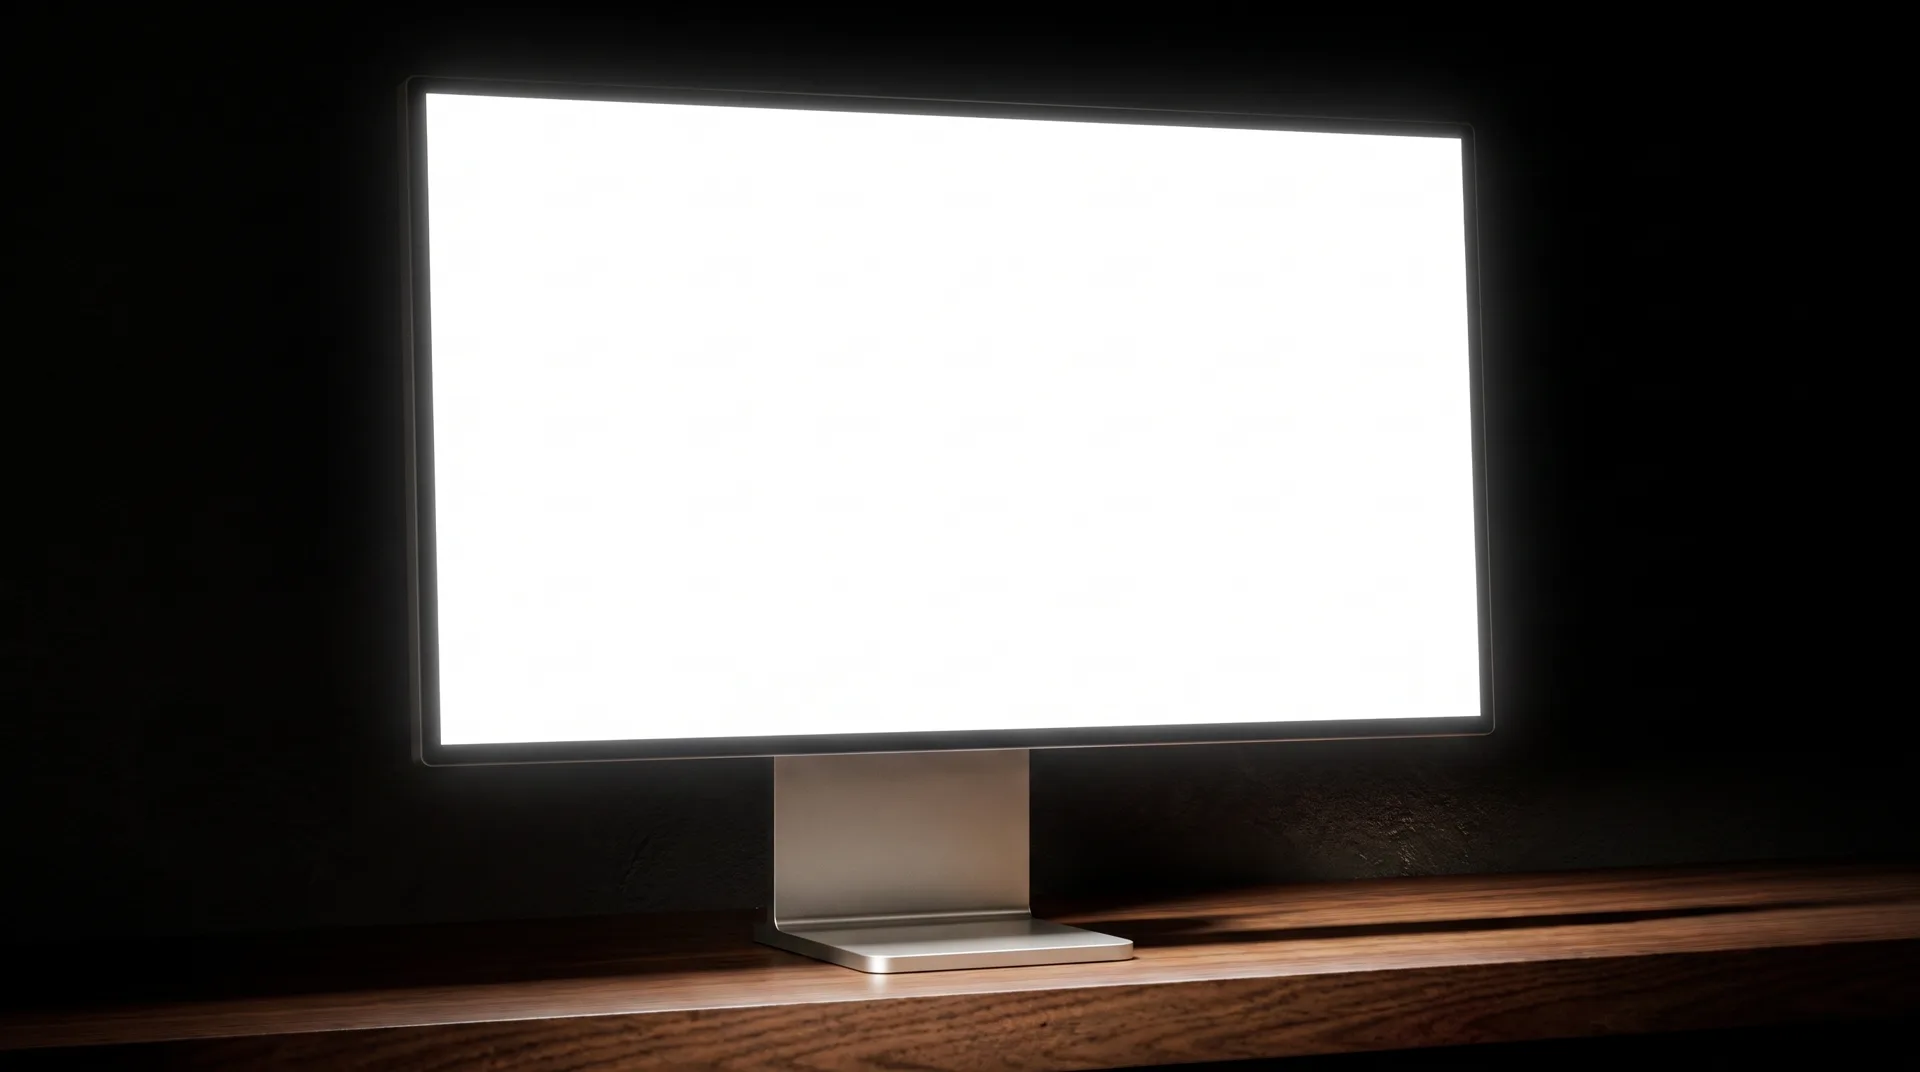
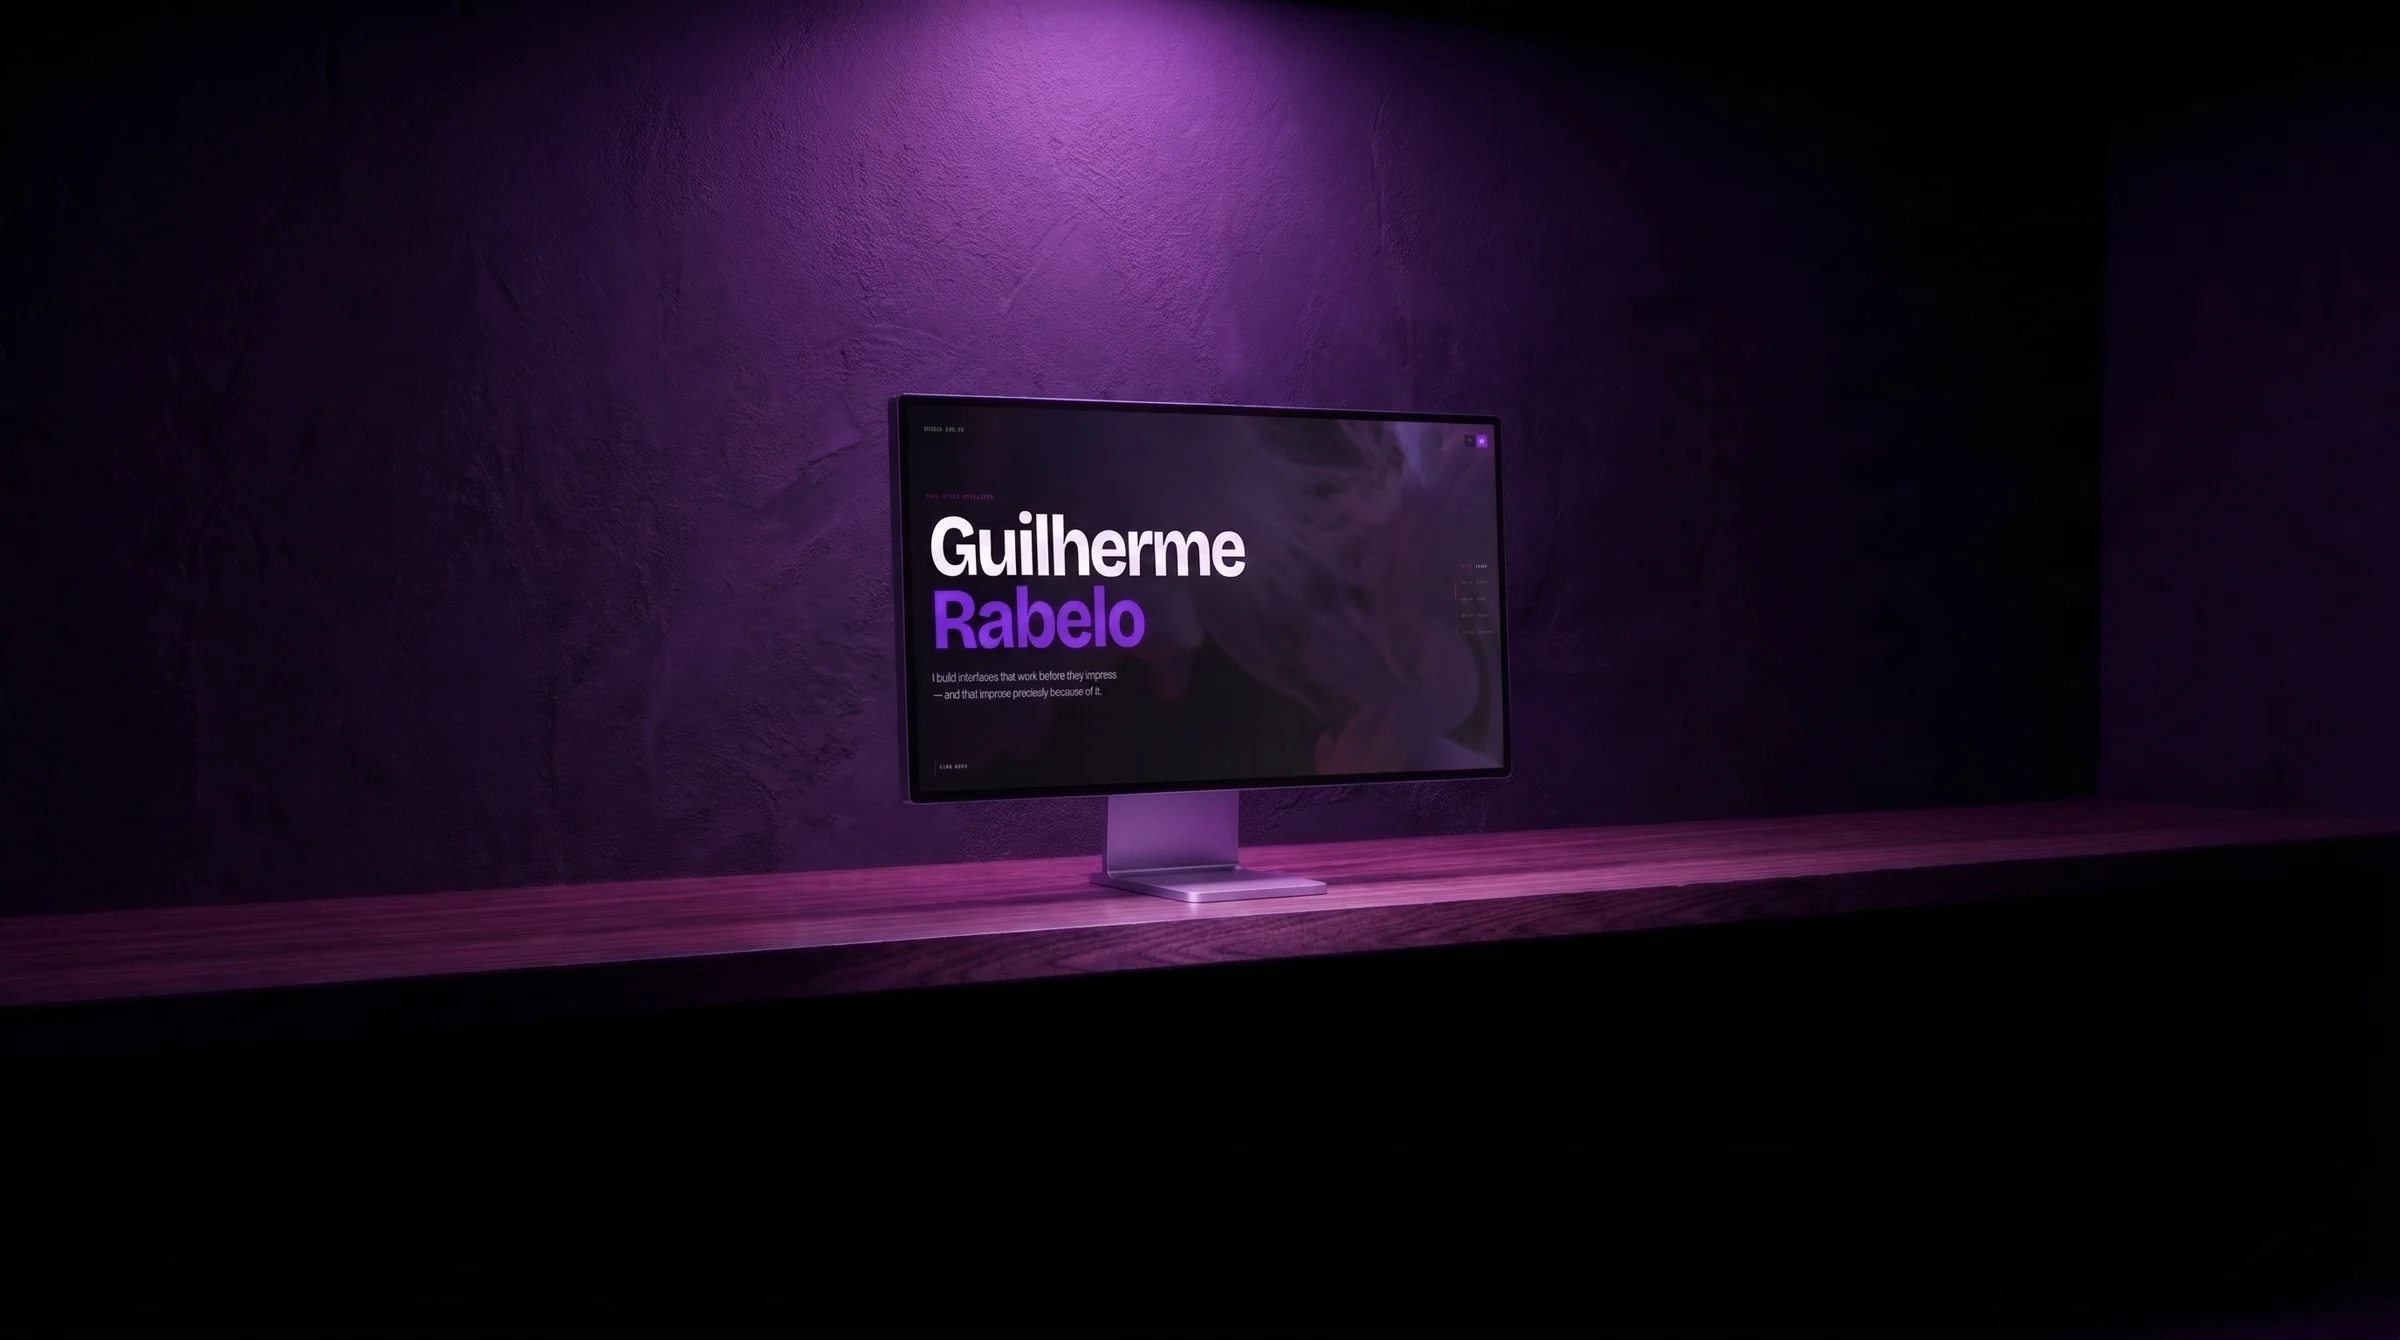
Troca a foto de abertura e ajusta numeros e stack
A abertura passa a usar a foto do monitor de longe, com a sala em roxo.
Como ela ja enquadra o monitor pequeno, a sequencia agora so amplia, sem
partir de uma escala reduzida.

O recorte da tela precisa converter as coordenadas medidas na foto para
a viewport: object-cover corta a imagem, entao uma porcentagem da foto
nao cai no mesmo ponto da tela e o video encaixava torto.

Numeros passam a tres: 6 anos, 15 projetos e 12 clientes. Sai Java da
stack e entra React Native.

diff --git a/components/sections/hero.tsx b/components/sections/hero.tsx
@@ -1,38 +1,67 @@
 "use client";
 
 import Image from "next/image";
+import { useEffect, useState } from "react";
 import { ScrollVideo } from "@/components/scroll-video";
 import { useIdioma } from "@/components/idioma";
 import { PERFIL, VIDEOS } from "@/lib/site-data";
 import { fatia, useScrollProgress } from "@/lib/use-scroll-progress";
 
-// Cantos da tela dentro de monitor.webp, medidos na imagem. O monitor está
-// levemente girado, então o lado direito começa mais abaixo que o esquerdo.
+const IMG = { w: 2752, h: 1536 };
+
+// Cantos da tela dentro de monitor.webp, em porcentagem da imagem. O monitor
+// está levemente girado, então o lado direito começa mais abaixo que o esquerdo.
 const TELA = [
-  [21.9, 8.2],
-  [77.4, 12.4],
-  [77.4, 67.2],
-  [21.9, 70.0],
+  [37.4, 29.6],
+  [63.2, 31.4],
+  [63.2, 57.8],
+  [37.4, 60.5],
 ] as const;
 
 const lerp = (a: number, b: number, t: number) => a + (b - a) * t;
 
-const MASCARA_MONITOR =
-  "radial-gradient(ellipse 74% 80% at 50% 48%, #000 58%, transparent 94%)";
-
 export function Hero() {
   const { t } = useIdioma();
   const { ref, progress } = useScrollProgress<HTMLElement>();
+  const [vp, setVp] = useState({ w: 0, h: 0 });
+
+  useEffect(() => {
+    const medir = () => setVp({ w: window.innerWidth, h: window.innerHeight });
+    medir();
+    window.addEventListener("resize", medir);
+    return () => window.removeEventListener("resize", medir);
+  }, []);
 
   const zoom = fatia(progress, 0, 0.6);
   const abertura = fatia(progress, 0.42, 0.72);
-  const ambiente = 1 - fatia(progress, 0.1, 0.5);
   const titulo = fatia(progress, 0.66, 0.86);
 
-  const escala = 0.34 + Math.pow(zoom, 2) * 2.5;
+  // A foto já enquadra o monitor de longe, então a sequência só amplia: começa
+  // no tamanho natural dela e vai até a tela dominar a viewport.
+  const escala = 1 + Math.pow(zoom, 2) * 3.1;
+
+  /**
+   * `object-cover` recorta a foto para preencher a viewport, então uma
+   * porcentagem medida na imagem não cai no mesmo ponto da tela. Aqui refazemos
+   * a conta do cover para converter os cantos da tela em coordenadas da
+   * viewport — sem isso o vídeo encaixa torto em telas de proporção diferente.
+   */
+  const paraViewport = ([x, y]: readonly [number, number]) => {
+    if (!vp.w || !vp.h) return [x, y] as const;
+    const cover = Math.max(vp.w / IMG.w, vp.h / IMG.h);
+    const larguraReal = IMG.w * cover;
+    const alturaReal = IMG.h * cover;
+    const sobraX = (larguraReal - vp.w) / 2;
+    const sobraY = (alturaReal - vp.h) / 2;
+    return [
+      ((x / 100) * larguraReal - sobraX) / vp.w * 100,
+      ((y / 100) * alturaReal - sobraY) / vp.h * 100,
+    ] as const;
+  };
 
   // A tela abre até virar a viewport inteira, sem trocar de elemento
-  const recorte = TELA.map(([x, y], i) => {
+  const recorte = TELA.map((canto, i) => {
+    const [x, y] = paraViewport(canto);
     const destino = [
       [0, 0],
       [100, 0],
@@ -45,14 +74,9 @@ export function Hero() {
   return (
     <section ref={ref} id="inicio" className="relative h-[420vh]">
       <div className="sticky top-0 h-screen overflow-hidden">
-        <div
-          className="absolute inset-0 bg-[radial-gradient(ellipse_55%_45%_at_50%_45%,#141024_0%,#09070f_60%)]"
-          style={{ opacity: ambiente }}
-        />
-
-        <div className="absolute inset-0 flex items-center justify-center">
+        <div className="absolute inset-0">
           <div
-            className="relative aspect-[2752/1536] w-[72vw] max-w-[1240px] will-change-transform"
+            className="relative h-full w-full will-change-transform"
             style={{ transform: `scale(${escala})` }}
           >
             <Image
@@ -60,15 +84,9 @@ export function Hero() {
               alt=""
               fill
               priority
-              sizes="72vw"
-              className="object-contain"
-              style={{
-                opacity: 1 - abertura,
-                // O preto da foto não é o preto da página: sem dissolver as
-                // bordas, o retângulo da imagem fica visível sobre o fundo.
-                maskImage: MASCARA_MONITOR,
-                WebkitMaskImage: MASCARA_MONITOR,
-              }}
+              sizes="100vw"
+              className="object-cover"
+              style={{ opacity: 1 - abertura }}
             />
 
             <div

diff --git a/components/sections/sobre.tsx b/components/sections/sobre.tsx
@@ -41,16 +41,14 @@ export function Sobre() {
               ))}
             </div>
 
-            <dl className="mt-16 grid grid-cols-2 gap-x-8 gap-y-10 border-t border-lilac/10 pt-10">
+            <dl className="mt-16 grid grid-cols-3 gap-x-6 border-t border-lilac/10 pt-10">
               {NUMEROS.map((numero, i) => (
                 <div key={i} className="reveal">
-                  <dt className="font-mono text-[0.62rem] leading-relaxed tracking-[0.2em] text-lilac/60 uppercase">
+                  <dt className="font-mono text-[0.6rem] leading-relaxed tracking-[0.18em] text-lilac/60 uppercase">
                     {t.sobre.numeros[i]}
                   </dt>
-                  <dd className="mt-2 font-display text-5xl font-extrabold text-paper md:text-6xl">
-                    {numero.valor !== "—" && (
-                      <span className="text-ultraviolet">+</span>
-                    )}
+                  <dd className="mt-2 font-display text-4xl font-extrabold text-paper md:text-6xl">
+                    <span className="text-ultraviolet">+</span>
                     {numero.valor}
                   </dd>
                 </div>

diff --git a/lib/i18n.ts b/lib/i18n.ts
@@ -31,12 +31,7 @@ export const T = {
         "Trabalho principalmente com React e Next.js, mas o que me interessa de verdade é a parte que o usuário sente: o tempo de resposta, o que acontece quando algo dá errado, o detalhe que ninguém nota até faltar.",
       ],
       retrato: "Retrato",
-      numeros: [
-        "anos de experiência",
-        "projetos entregues",
-        "clientes atendidos",
-        "projetos full-stack",
-      ],
+      numeros: ["anos de experiência", "projetos feitos", "clientes"],
     },
 
     projetos: {
@@ -117,12 +112,7 @@ export const T = {
         "I work mostly with React and Next.js, but what really interests me is the part the user feels: response time, what happens when something breaks, the detail nobody notices until it is missing.",
       ],
       retrato: "Portrait",
-      numeros: [
-        "years of experience",
-        "projects delivered",
-        "clients served",
-        "full-stack projects",
-      ],
+      numeros: ["years of experience", "projects built", "clients"],
     },
 
     projetos: {

diff --git a/lib/site-data.ts b/lib/site-data.ts
@@ -52,16 +52,10 @@ export const PROJETOS: {
 ];
 
 export const STACK = [
-  ["TypeScript", "JavaScript", "C#", "C++", "Python", "Java"],
-  ["React", "Next.js", "Tailwind CSS", "HTML", "CSS"],
+  ["TypeScript", "JavaScript", "C#", "C++", "Python"],
+  ["React", "React Native", "Next.js", "Tailwind CSS", "HTML", "CSS"],
   ["Node.js", "Express", "APIs REST", "PostgreSQL", "MySQL", "MongoDB"],
   ["Git", "Vercel", "Docker", "Figma"],
 ];
 
-// Só o tempo de experiência é um número fechado; o resto entra quando houver
-export const NUMEROS = [
-  { valor: "6" },
-  { valor: "—" }, // PREENCHER: projetos entregues
-  { valor: "—" }, // PREENCHER: clientes atendidos
-  { valor: "—" }, // PREENCHER: projetos full-stack
-];
+export const NUMEROS = [{ valor: "6" }, { valor: "15" }, { valor: "12" }];
